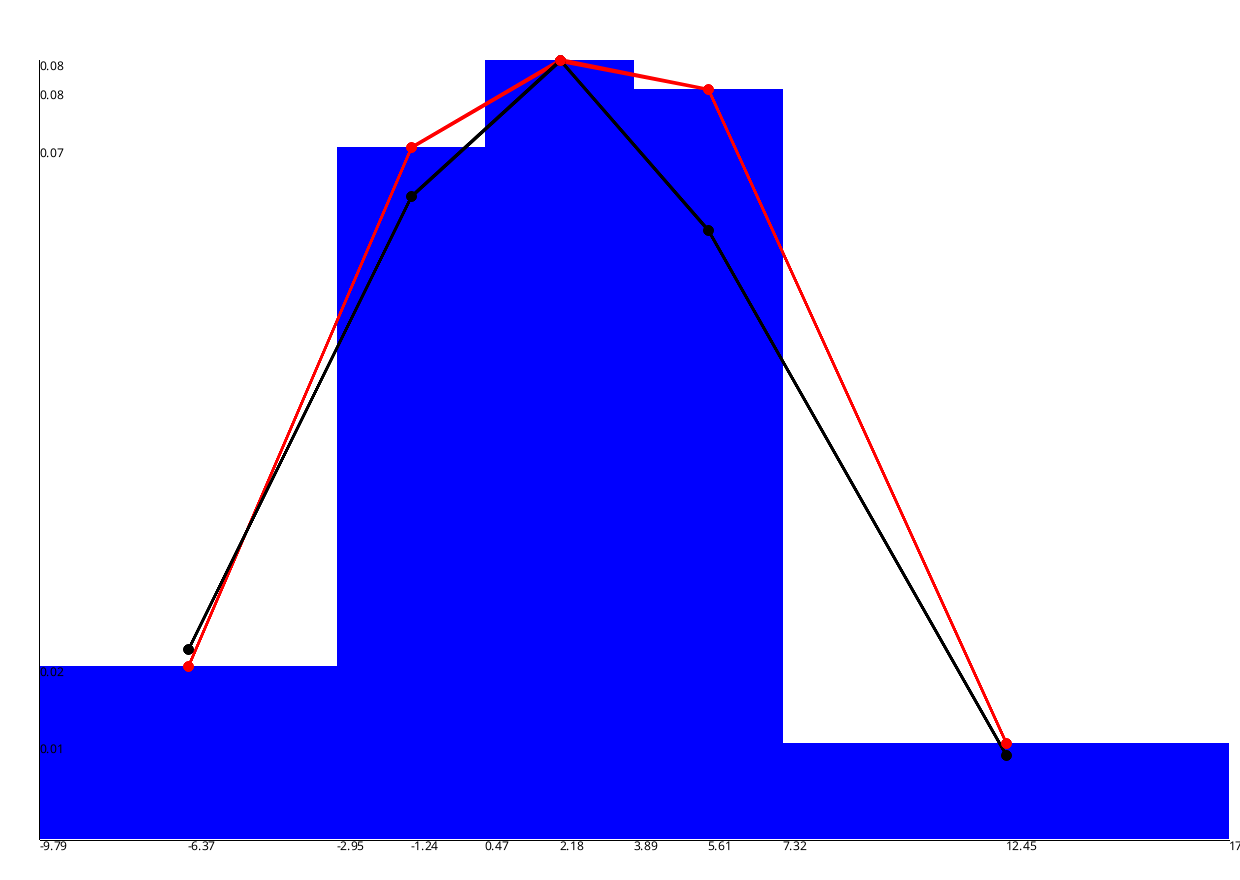
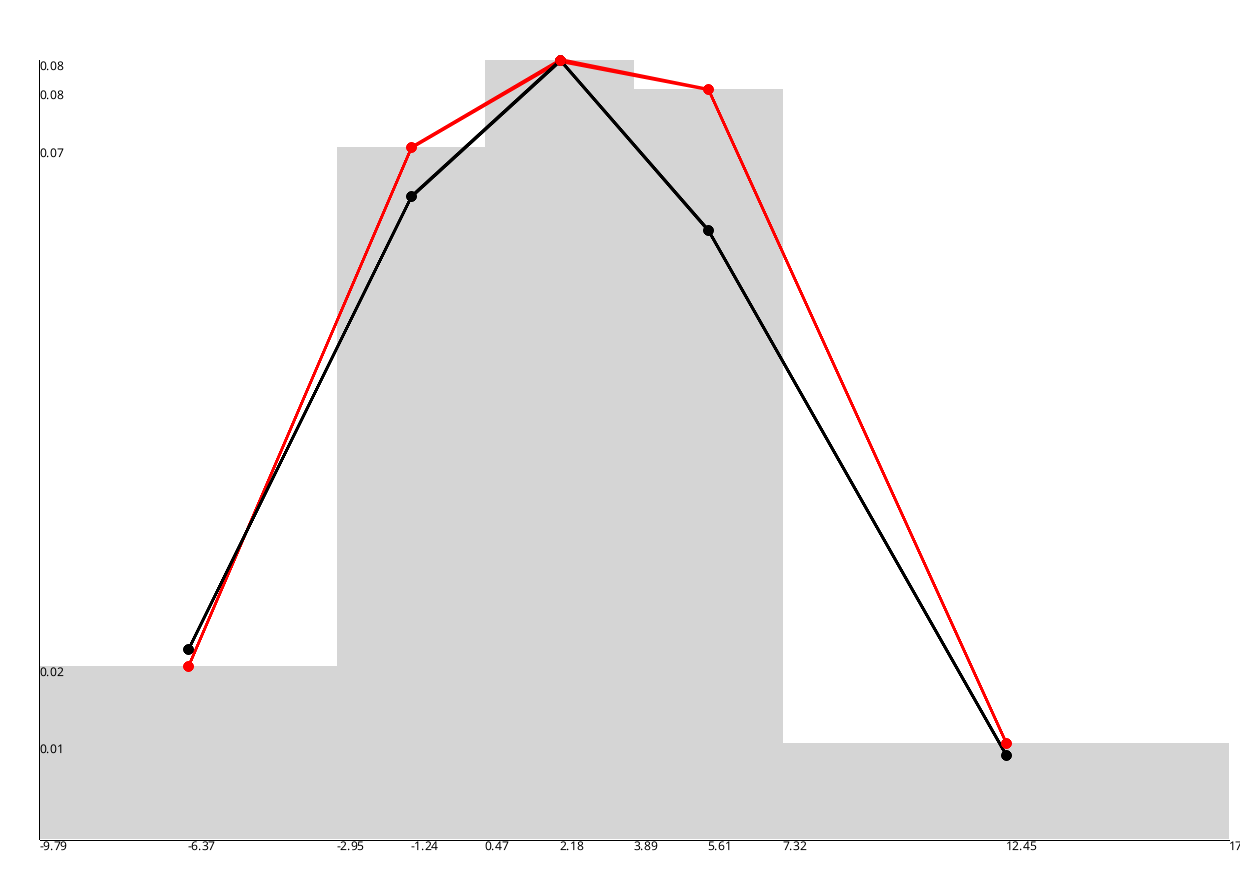
funservice

diff --git a/src/graphix.rs b/src/graphix.rs
@@ -1,3 +1,4 @@
+use full_palette::GREY_A100;
 use plotters::prelude::*;
 
 use crate::calculate::calculate_normal_distr_y;
@@ -50,7 +51,7 @@ pub(crate) fn plot_histogram_and_polygon(
     for (i, &height) in histogram.iter().enumerate() {
         let (lower, upper) = intervals[i];
         chart.draw_series(vec![
-            Rectangle::new([(lower, 0.0), (upper, height)], BLUE.filled())
+            Rectangle::new([(lower, 0.0), (upper, height)], GREY_A100.filled())
         ])?;
     }
 
